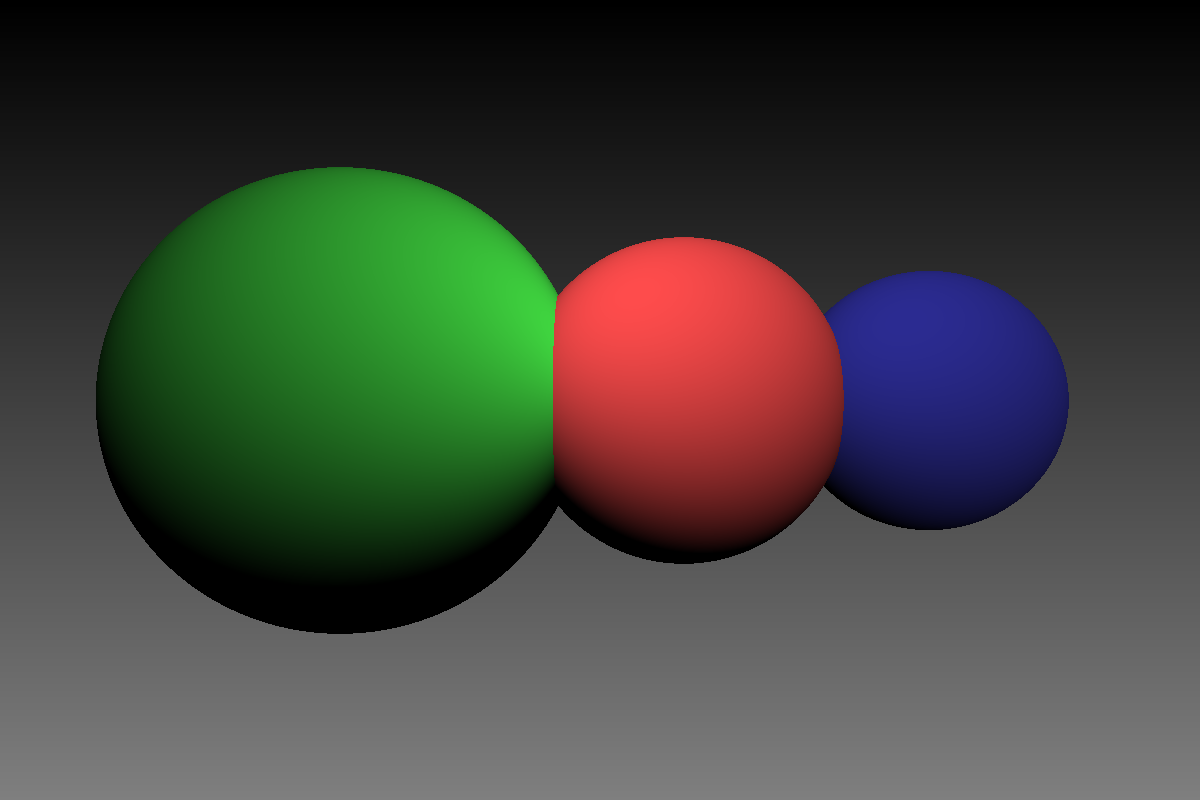
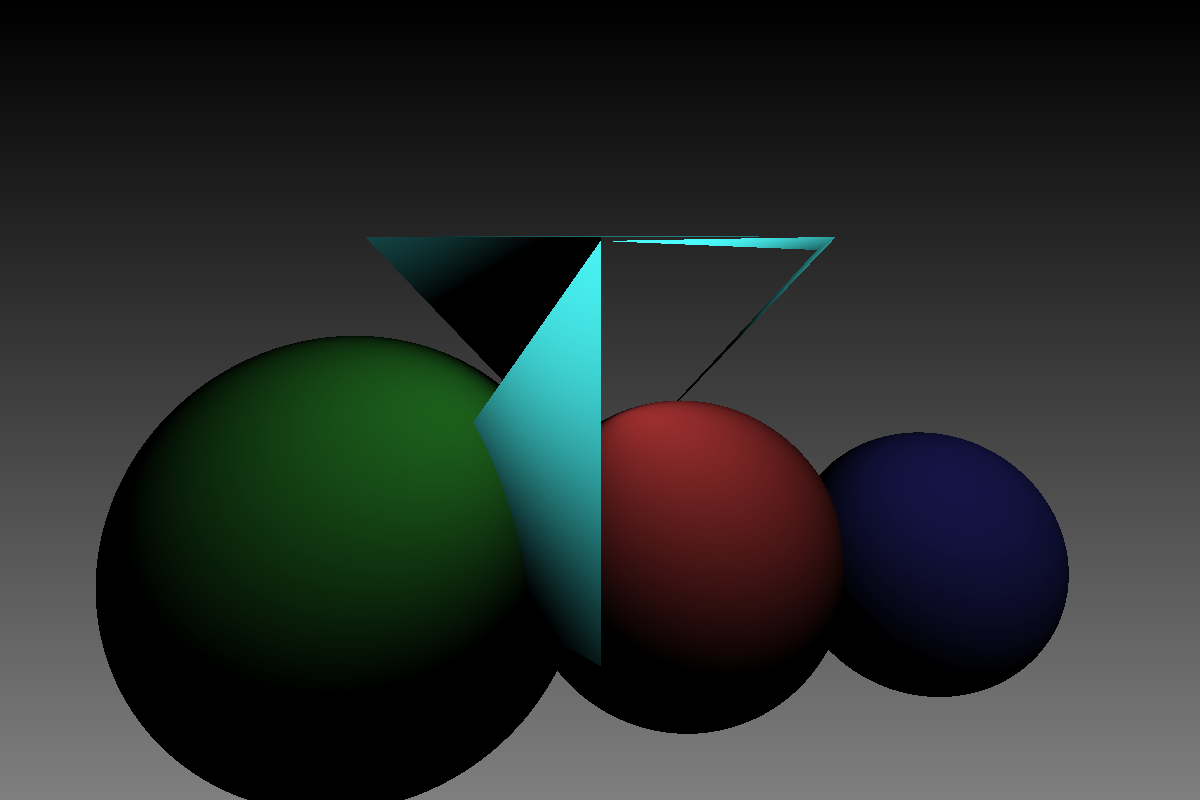
added Triangles

diff --git a/geometry/tri.go b/geometry/tri.go
@@ -1,13 +1,124 @@
 package geometry
 
-import . "../core"
+import (
+	. "../core"
+	//"math"
+)
 
 type Tri struct {
 	A, B, C Vec
 }
 
 
+func (tri Tri) Normal(ray Ray, HitPoint Vec) Vec {
 
-func Normal(ray Ray, HitPoint Vec) {
-	//Barycentrical coordinates
+	ab := tri.B.Sub(tri.A)
+	ac := tri.C.Sub(tri.A)
+	//calculate Normal
+	return Cross(ab, ac)
 }
+
+func (tri Tri) Intersect(ray Ray, t *float64) bool {
+
+	EPSILON := 0.0000001
+	var a,f,u,v float64
+
+	edge1 := tri.B.Sub(tri.A)
+	edge2 := tri.C.Sub(tri.A)
+
+	h := Cross(ray.D, edge2)
+	a = Dot(edge1, h)
+	if a > -EPSILON && a > EPSILON {
+		return false
+	}
+
+	f = 1/a
+	s := ray.O.Sub(tri.A)
+	u = f * Dot(s, h)
+	if u < 0.0 || u > 1.0 {
+		return false
+	}
+
+	q := Cross(s, edge1)
+	v = f * Dot(ray.D, q)
+	if v < 0.0 || u + v > 1 {
+		return false
+	}
+
+	*t = f * Dot(edge2, q)
+
+	if *t > EPSILON {
+		//outIntersectionPoint := ray.O.Add(ray.D.Multiply(*t))
+		return true
+	}
+
+	return true
+
+}
+
+/*
+func (tri Tri) Intersect(ray Ray, t *float64) bool {
+
+	//Planes Normal
+	ab := tri.B.Sub(tri.A)
+	ac := tri.C.Sub(tri.A)
+
+	//calculate Normal
+	normal := Cross(ab, ac)
+	//area2 := normal.Length()
+
+	//Find P
+	//check if ray & Plane parallel
+	nDotRay := Dot(normal, ray.D)
+
+	//TODO find more elegant way for kEpsilon
+	if math.Abs(nDotRay) < 0.00000000000001 {
+		//don't intersect if ray & Tri are parallel
+		return false
+	}
+
+	// d Parameter
+	d := Dot(normal, tri.A)
+
+	//set t
+	*t = (Dot(normal, ray.O) + d) / nDotRay
+
+	// check if the triangle is in behind the ray
+	if (*t < 0) {
+		return false
+	}
+
+	//Ray HitPoint
+	p := ray.O.Add(ray.D.Multiply(*t))
+
+
+	//edge 0
+	edge0 := tri.B.Sub(tri.A)
+	vp0 := p.Sub(tri.A)
+	c := Cross(edge0, vp0)
+
+	if Dot(normal, c) < 0 {
+		return false // P is on the right side
+	}
+
+	//edge 1
+	edge1 := tri.C.Sub(tri.B)
+	vp1 := p.Sub(tri.B)
+	c = Cross(edge1, vp1)
+
+	if Dot(normal, c) < 0 {
+		return false // P is on the right side
+	}
+
+	//edge 2
+	edge2 := tri.A.Sub(tri.C)
+	vp2 := p.Sub(tri.C)
+	c = Cross(edge2, vp2)
+
+	if Dot(normal, c) < 0 {
+		return false // P is on the right side
+	}
+
+	return true
+}
+*/

diff --git a/render.go b/render.go
@@ -46,6 +46,7 @@ func Render(objectArray []geometry.Geometry, cam_or Vec, WIDTH, HEIGHT int, file
 					//check if new t is smaller then old tmin and set tmin to new t if it is
 					tminOld := tMin
 
+
 					if t < tminOld {
 						tMin = t
 						//what Object got hit
@@ -61,15 +62,11 @@ func Render(objectArray []geometry.Geometry, cam_or Vec, WIDTH, HEIGHT int, file
 				LightPos := Vec{-4, -1, 3}
 				LightAttendance := Dot(HitPoint.Normalized(), LightPos.Normalized())
 
-				//placeholder colors
-				colorArray := []color.Color32{
-					color.Color32{1,0.3,0.3},
-					color.Color32{0.3,1,0.3},
-					color.Color32{0.3,0.3,1},
-					}
-
+				//Placeholder Color
 				//Color Spheres (color multiplied with Light Attendance)
-				col = color.Multiply(colorArray[ObjectHitIndex],color.Gray32(float32(LightAttendance)))
+				col = color.Gray32(float32(ObjectHitIndex) / 5)
+				col = color.Gray32(float32(LightAttendance))
+				//col = color.FromVec(objectArray[ObjectHitIndex].Normal(ray, HitPoint))
 				col.Clamp()
 			}
 			//convert float32 colors to 24 bit (0-255) color and save

diff --git a/main.go b/main.go
@@ -11,12 +11,24 @@ func main() {
 	//Simple Sphere test-scene
 	cam_or := Vec{-5, 0, 0}
 	//cam_dir := Vec{-1,0,0}.Normalized() // - TODO
-	sp1 := geometry.Sphere{Vec{0,-0.5,0}, 1}
-	sp2 := geometry.Sphere{Vec{0,1.5,0}, 1.4}
-	sp3 := geometry.Sphere{Vec{0,-2,0}, 0.8}
+	sp1 := geometry.Sphere{Vec{0,-0.5,-1}, 1}
+	sp2 := geometry.Sphere{Vec{0,1.5,-1}, 1.4}
+	sp3 := geometry.Sphere{Vec{0,-2,-1}, 0.8}
 
-	ObArray := []geometry.Geometry{&sp1, &sp2, &sp3}
+	//Cube
+	v1 := Vec{0,0,0}
+	v2 := Vec{0.6,-0.3,1}
+	v3 := Vec{-0.6, 0.3, 1}
 
-	Render(ObArray, cam_or, WIDTH, HEIGHT, "image")
+
+	tri1 := geometry.Tri{v2,v1,v3}
+
+
+	//tri2 := geometry.Tri{Vec{0,0,1}, Vec{0,1,0}, Vec{0,0,1}}
+	//tri3 := geometry.Tri{Vec{0,0,1}, Vec{0,1,0}, Vec{0,0,1}}
+
+	ObArray := []geometry.Geometry{&sp1, &sp2, &sp3, &tri1}
+
+	Render(ObArray, cam_or, WIDTH, HEIGHT, "image2")
 
 }

diff --git a/geometry/plane.go b/geometry/plane.go
@@ -1,0 +1,5 @@
+package geometry
+
+type Plane struct {
+
+}
